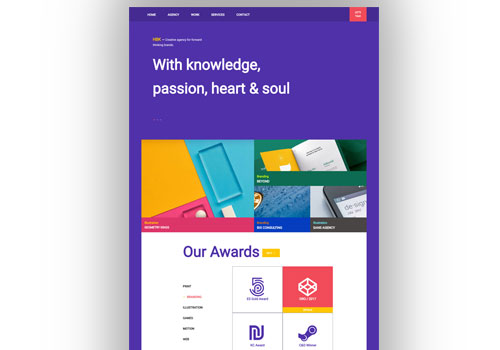
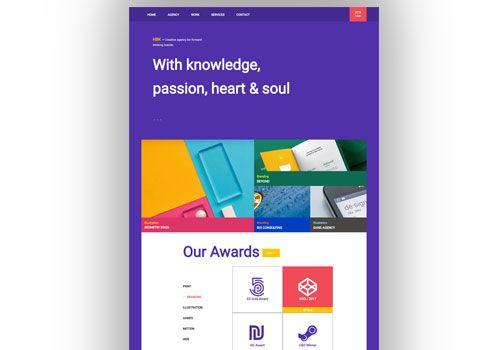
- Add the Breakfast Bar project

diff --git a/build/index.html b/build/index.html
@@ -8,4 +8,4 @@
         About Me section, constains information about the user
         --><section class="about-me" id="aboutMe"><div class="about-me__picture"><img src="img/Eva.jpg" alt="Profile photo"><p>Welcome to my portfolio!</p><p>See my online activity</p><!--social icons svg--> <a href="https://www.linkedin.com/in/eva-m-gyomrey-l-6050a4aa/" title="See me on LinkedIn"><svg role="img" aria-label="LinkedIn" width="40" height="40" viewBox="0 0 1792 1792" xmlns="http://www.w3.org/2000/svg"><path d="M365 1414h231v-694h-231v694zm246-908q-1-52-36-86t-93-34-94.5 34-36.5 86q0 51 35.5 85.5t92.5 34.5h1q59 0 95-34.5t36-85.5zm585 908h231v-398q0-154-73-233t-193-79q-136 0-209 117h2v-101h-231q3 66 0 694h231v-388q0-38 7-56 15-35 45-59.5t74-24.5q116 0 116 157v371zm468-998v960q0 119-84.5 203.5t-203.5 84.5h-960q-119 0-203.5-84.5t-84.5-203.5v-960q0-119 84.5-203.5t203.5-84.5h960q119 0 203.5 84.5t84.5 203.5z"/></svg></a><a href="mailto:evamargy@gmail.com" title="Email me"><svg role="img" aria-label="Email" width="40" height="40" viewBox="0 0 1792 1792" xmlns="http://www.w3.org/2000/svg"><path d="M1376 128q119 0 203.5 84.5t84.5 203.5v960q0 119-84.5 203.5t-203.5 84.5h-960q-119 0-203.5-84.5t-84.5-203.5v-960q0-119 84.5-203.5t203.5-84.5h960zm32 1056v-436q-31 35-64 55-34 22-132.5 85t-151.5 99q-98 69-164 69t-164-69q-47-32-142-92.5t-142-92.5q-12-8-33-27t-31-27v436q0 40 28 68t68 28h832q40 0 68-28t28-68zm0-573q0-41-27.5-70t-68.5-29h-832q-40 0-68 28t-28 68q0 37 30.5 76.5t67.5 64.5q47 32 137.5 89t129.5 83q3 2 17 11.5t21 14 21 13 23.5 13 21.5 9.5 22.5 7.5 20.5 2.5 20.5-2.5 22.5-7.5 21.5-9.5 23.5-13 21-13 21-14 17-11.5l267-174q35-23 66.5-62.5t31.5-73.5z"/></svg></a><a href="https://github.com/EGYOMREY/" title="My Github account"><svg role="img" aria-label="Github" width="40" height="40" viewBox="0 0 1792 1792" xmlns="http://www.w3.org/2000/svg"><path d="M647 1200q4-6-3-13-9-7-14-2-4 6 3 13 9 7 14 2zm-28-41q-5-7-12-4-6 4 0 12 7 8 12 5 6-4 0-13zm-41-40q2-4-5-8-7-2-8 2-3 5 4 8 8 2 9-2zm21 23q2-1 1.5-4.5t-3.5-5.5q-6-7-10-3t1 11q6 6 11 2zm86 75q2-7-9-11-9-3-13 4-2 7 9 11 9 3 13-4zm42 3q0-8-12-8-10 0-10 8t11 8 11-8zm39-7q-2-7-13-5t-9 9q2 8 12 6t10-10zm642-317q0-212-150-362t-362-150-362 150-150 362q0 167 98 300.5t252 185.5q18 3 26.5-5t8.5-20q0-52-1-95-6 1-15.5 2.5t-35.5 2-48-4-43.5-20-29.5-41.5q-23-59-57-74-2-1-4.5-3.5l-8-8-7-9.5 4-7.5 19.5-3.5q6 0 15 2t30 15.5 33 35.5q16 28 37.5 42t43.5 14 38-3.5 30-9.5q7-47 33-69-49-6-86-18.5t-73-39-55.5-76-19.5-119.5q0-79 53-137-24-62 5-136 19-6 54.5 7.5t60.5 29.5l26 16q58-17 128-17t128 17q11-7 28.5-18t55.5-26 57-9q29 74 5 136 53 58 53 137 0 57-14 100.5t-35.5 70-53.5 44.5-62.5 26-68.5 12q35 31 35 95 0 40-.5 89t-.5 51q0 12 8.5 20t26.5 5q154-52 252-185.5t98-300.5zm256-480v960q0 119-84.5 203.5t-203.5 84.5h-960q-119 0-203.5-84.5t-84.5-203.5v-960q0-119 84.5-203.5t203.5-84.5h960q119 0 203.5 84.5t84.5 203.5z"/></svg></a></div><div class="about-me__details"><h2>About Me</h2><p>My learning path started with the <a href="https://www.udacity.com/course/front-end-web-developer-nanodegree--nd001">Udacity Front-End Nanodegree</a> and graduated on September 2017. It was fun and very rewarding! My favorite project was the "Google Maps Neighborhood" which is listed below.</p><p>Skills:</p><ul><li>HTML5</li><li>CSS3/Sass</li><li>BEM methodology</li><li>Responsive Design</li><li>Build tools: Gulp/Grunt</li><li>Working with API's</li><li>Javascript</li><li>Basic ReactJS</li></ul></div></section><!--
           Projects section: contains pictures and details about projects
-          --><section class="project" id="projects"><h2>Projects & Details</h2><div class="grid justify-content"><!-- Individual project block --><div class="project-block"><img src="img/From-Mockup-To-Website-Project.jpg" alt="From Mockup to Website Project"><div class="project-block__buttons"><a href="https://github.com/EGYOMREY/From-Mockup-to-Website" class="btn btn--primary" role="button">Code</a> <a href="https://egyomrey.github.io/From-Mockup-to-Website/build/index.html" class="btn btn--primary" role="button">Live</a></div><div class="project-block__details"><h3>From Mockup to Website Project</h3><p>I took <a href="https://egyomrey.github.io/From-Mockup-to-Website/Dribbble%20mockup.jpg">this design</a> from Dribble.com and built it as a responsive single page website with Sass, no frameworks used.</p></div></div><!-- Individual project block --><div class="project-block"><img src="img/MarsCollection-Project.png" alt=""><div class="project-block__buttons"><a href="https://github.com/EGYOMREY/Mars-Collection" class="btn btn--primary" role="button">Code</a> <a href="https://egyomrey.github.io/Mars-Collection/build/index.html" class="btn btn--primary" role="button">Live</a></div><div class="project-block__details"><h3>Mars Photo Showcase</h3><p>Using the NASA's <a href="https://api.nasa.gov/api.html#MarsPhotos">Mars Rover Photos</a> API, send requests to display images from Mars taken by the rovers. The search can be customized by number of pictures displayed, height/width of the picture and name of the rover. Used Jquery, ES2015 and Sass.</p></div></div><!-- Individual project block --><div class="project-block"><img src="img/TheWritingGame-Project.jpg" alt="The Writing Game"><div class="project-block__buttons"><a href="https://github.com/EGYOMREY/The-Writing-Game" class="btn btn--primary" role="button">Code</a> <a href="https://egyomrey.github.io/The-Writing-Game/" class="btn btn--primary" role="button">Live</a></div><div class="project-block__details"><h3>The Writing Game</h3><p>This game has 4 different game modes: Easy, Medium, Hard and a Mix of those 3. You have to write down the displayed word as fast as you can; if you do it right, the time will restart, if you take too long you will lose and your score will be displayed. Your highscore is also saved in the browser.</p></div></div><!-- Individual project block --><div class="project-block"><img src="img/GoogleMaps_UdacityProject.jpg" alt="Udacity Nanodegree Google Maps Project"><div class="project-block__buttons"><a href="https://github.com/EGYOMREY/Udacity-Nanodegree-Project-5-Google-Maps-Neighborhood" class="btn btn--primary" role="button">Code</a> <a href="https://egyomrey.github.io/Udacity-Nanodegree-Project-5-Google-Maps-Neighborhood/" class="btn btn--primary" role="button">Live</a></div><div class="project-block__details"><h3>Udacity Nanodegree Project</h3><p>This is a single page application featuring a map of a place I'd like to visit using the Google Maps API. The <a href="http://knockoutjs.com/">Knockout Framework</a>, was used to handle the list of places, filter, and any other information on the page that is subject to changing state. Added functionality using the <a href="https://www.mediawiki.org/wiki/API:Main_page/en">Wikipedia API</a> to provide information when a map marker or list view entry is clicked.</p></div></div></div></section><!-- Footer: contains Contact information --><footer class="contact-me" id="contactMe"><h3 class="contact-me__title">Contact Me</h3><div class="contact-me__icons"><a href="https://www.linkedin.com/in/eva-m-gyomrey-l-6050a4aa/" title="See me on LinkedIn"><svg role="img" aria-label="LinkedIn" width="40" height="40" viewBox="0 0 1792 1792" xmlns="http://www.w3.org/2000/svg"><path d="M365 1414h231v-694h-231v694zm246-908q-1-52-36-86t-93-34-94.5 34-36.5 86q0 51 35.5 85.5t92.5 34.5h1q59 0 95-34.5t36-85.5zm585 908h231v-398q0-154-73-233t-193-79q-136 0-209 117h2v-101h-231q3 66 0 694h231v-388q0-38 7-56 15-35 45-59.5t74-24.5q116 0 116 157v371zm468-998v960q0 119-84.5 203.5t-203.5 84.5h-960q-119 0-203.5-84.5t-84.5-203.5v-960q0-119 84.5-203.5t203.5-84.5h960q119 0 203.5 84.5t84.5 203.5z"/></svg></a><a href="mailto:evamargy@gmail.com" title="Email me"><svg role="img" aria-label="Email" width="40" height="40" viewBox="0 0 1792 1792" xmlns="http://www.w3.org/2000/svg"><path d="M1376 128q119 0 203.5 84.5t84.5 203.5v960q0 119-84.5 203.5t-203.5 84.5h-960q-119 0-203.5-84.5t-84.5-203.5v-960q0-119 84.5-203.5t203.5-84.5h960zm32 1056v-436q-31 35-64 55-34 22-132.5 85t-151.5 99q-98 69-164 69t-164-69q-47-32-142-92.5t-142-92.5q-12-8-33-27t-31-27v436q0 40 28 68t68 28h832q40 0 68-28t28-68zm0-573q0-41-27.5-70t-68.5-29h-832q-40 0-68 28t-28 68q0 37 30.5 76.5t67.5 64.5q47 32 137.5 89t129.5 83q3 2 17 11.5t21 14 21 13 23.5 13 21.5 9.5 22.5 7.5 20.5 2.5 20.5-2.5 22.5-7.5 21.5-9.5 23.5-13 21-13 21-14 17-11.5l267-174q35-23 66.5-62.5t31.5-73.5z"/></svg></a><a href="https://github.com/EGYOMREY/" title="My Github account"><svg role="img" aria-label="Github" width="40" height="40" viewBox="0 0 1792 1792" xmlns="http://www.w3.org/2000/svg"><path d="M647 1200q4-6-3-13-9-7-14-2-4 6 3 13 9 7 14 2zm-28-41q-5-7-12-4-6 4 0 12 7 8 12 5 6-4 0-13zm-41-40q2-4-5-8-7-2-8 2-3 5 4 8 8 2 9-2zm21 23q2-1 1.5-4.5t-3.5-5.5q-6-7-10-3t1 11q6 6 11 2zm86 75q2-7-9-11-9-3-13 4-2 7 9 11 9 3 13-4zm42 3q0-8-12-8-10 0-10 8t11 8 11-8zm39-7q-2-7-13-5t-9 9q2 8 12 6t10-10zm642-317q0-212-150-362t-362-150-362 150-150 362q0 167 98 300.5t252 185.5q18 3 26.5-5t8.5-20q0-52-1-95-6 1-15.5 2.5t-35.5 2-48-4-43.5-20-29.5-41.5q-23-59-57-74-2-1-4.5-3.5l-8-8-7-9.5 4-7.5 19.5-3.5q6 0 15 2t30 15.5 33 35.5q16 28 37.5 42t43.5 14 38-3.5 30-9.5q7-47 33-69-49-6-86-18.5t-73-39-55.5-76-19.5-119.5q0-79 53-137-24-62 5-136 19-6 54.5 7.5t60.5 29.5l26 16q58-17 128-17t128 17q11-7 28.5-18t55.5-26 57-9q29 74 5 136 53 58 53 137 0 57-14 100.5t-35.5 70-53.5 44.5-62.5 26-68.5 12q35 31 35 95 0 40-.5 89t-.5 51q0 12 8.5 20t26.5 5q154-52 252-185.5t98-300.5zm256-480v960q0 119-84.5 203.5t-203.5 84.5h-960q-119 0-203.5-84.5t-84.5-203.5v-960q0-119 84.5-203.5t203.5-84.5h960q119 0 203.5 84.5t84.5 203.5z"/></svg></a></div></footer></main><script src="js/app.js" async></script></body></html>
+          --><section class="project" id="projects"><h2>Projects & Details</h2><div class="grid justify-content"><!-- Individual project block --><div class="project-block"><img src="img/From-Mockup-To-Website-Project.jpg" alt="From Mockup to Website Project"><div class="project-block__buttons"><a href="https://github.com/EGYOMREY/From-Mockup-to-Website" class="btn btn--primary" role="button">Code</a> <a href="https://egyomrey.github.io/From-Mockup-to-Website/build/index.html" class="btn btn--primary" role="button">Live</a></div><div class="project-block__details"><h3>From Mockup to Website Project</h3><p>I took <a href="https://egyomrey.github.io/From-Mockup-to-Website/Dribbble%20mockup.jpg">this design</a> from Dribble.com and built it as a responsive single page website with SCSS, no frameworks used.</p></div></div><!-- Individual project block --><div class="project-block"><img src="img/MarsCollection-Project.png" alt=""><div class="project-block__buttons"><a href="https://github.com/EGYOMREY/Mars-Collection" class="btn btn--primary" role="button">Code</a> <a href="https://egyomrey.github.io/Mars-Collection/build/index.html" class="btn btn--primary" role="button">Live</a></div><div class="project-block__details"><h3>Mars Photo Showcase</h3><p>Using the NASA's <a href="https://api.nasa.gov/api.html#MarsPhotos">Mars Rover Photos</a> API, send requests to display images from Mars taken by the rovers. The search can be customized by number of pictures displayed, height/width of the picture and name of the rover. Used Jquery, ES2015 and SCSS.</p></div></div><!-- Individual project block --><div class="project-block"><img src="img/TheWritingGame-Project.jpg" alt="The Writing Game"><div class="project-block__buttons"><a href="https://github.com/EGYOMREY/The-Writing-Game" class="btn btn--primary" role="button">Code</a> <a href="https://egyomrey.github.io/The-Writing-Game/" class="btn btn--primary" role="button">Live</a></div><div class="project-block__details"><h3>The Writing Game</h3><p>This game has 4 different game modes: Easy, Medium, Hard and a Mix of those 3. You have to write down the displayed word as fast as you can; if you do it right, the time will restart, if you take too long you will lose and your score will be displayed. Your highscore is also saved in the browser.</p></div></div><!-- Individual project block --><div class="project-block"><img src="img/Breakfast-Bar-Project.jpg" alt="The Breakfast Bar"><div class="project-block__buttons"><a href="https://github.com/EGYOMREY/Breakfast-Bar" class="btn btn--primary" role="button">Code</a> <a href="https://egyomrey.github.io/Breakfast-Bar/build/index.html" class="btn btn--primary" role="button">Live</a></div><div class="project-block__details"><h3>The Breakfast Bar</h3><p>I took <a href="https://egyomrey.github.io/Breakfast-Bar/Mockup%20from%20Dribbble.jpg">this design</a> from dribbble.com and built a single responsive website. SCSS used</p></div></div><!-- Individual project block --><div class="project-block"><img src="img/GoogleMaps_UdacityProject.jpg" alt="Udacity Nanodegree Google Maps Project"><div class="project-block__buttons"><a href="https://github.com/EGYOMREY/Udacity-Nanodegree-Project-5-Google-Maps-Neighborhood" class="btn btn--primary" role="button">Code</a> <a href="https://egyomrey.github.io/Udacity-Nanodegree-Project-5-Google-Maps-Neighborhood/" class="btn btn--primary" role="button">Live</a></div><div class="project-block__details"><h3>Google Maps Project</h3><p>This is a single page application featuring a map of a place I'd like to visit using the Google Maps API. The <a href="http://knockoutjs.com/">Knockout Framework</a>, was used to handle the list of places, filter, and any other information on the page that is subject to changing state. Added functionality using the <a href="https://www.mediawiki.org/wiki/API:Main_page/en">Wikipedia API</a> to provide information when a map marker or list view entry is clicked.</p></div></div></div></section><!-- Footer: contains Contact information --><footer class="contact-me" id="contactMe"><h3 class="contact-me__title">Contact Me</h3><div class="contact-me__icons"><a href="https://www.linkedin.com/in/eva-m-gyomrey-l-6050a4aa/" title="See me on LinkedIn"><svg role="img" aria-label="LinkedIn" width="40" height="40" viewBox="0 0 1792 1792" xmlns="http://www.w3.org/2000/svg"><path d="M365 1414h231v-694h-231v694zm246-908q-1-52-36-86t-93-34-94.5 34-36.5 86q0 51 35.5 85.5t92.5 34.5h1q59 0 95-34.5t36-85.5zm585 908h231v-398q0-154-73-233t-193-79q-136 0-209 117h2v-101h-231q3 66 0 694h231v-388q0-38 7-56 15-35 45-59.5t74-24.5q116 0 116 157v371zm468-998v960q0 119-84.5 203.5t-203.5 84.5h-960q-119 0-203.5-84.5t-84.5-203.5v-960q0-119 84.5-203.5t203.5-84.5h960q119 0 203.5 84.5t84.5 203.5z"/></svg></a><a href="mailto:evamargy@gmail.com" title="Email me"><svg role="img" aria-label="Email" width="40" height="40" viewBox="0 0 1792 1792" xmlns="http://www.w3.org/2000/svg"><path d="M1376 128q119 0 203.5 84.5t84.5 203.5v960q0 119-84.5 203.5t-203.5 84.5h-960q-119 0-203.5-84.5t-84.5-203.5v-960q0-119 84.5-203.5t203.5-84.5h960zm32 1056v-436q-31 35-64 55-34 22-132.5 85t-151.5 99q-98 69-164 69t-164-69q-47-32-142-92.5t-142-92.5q-12-8-33-27t-31-27v436q0 40 28 68t68 28h832q40 0 68-28t28-68zm0-573q0-41-27.5-70t-68.5-29h-832q-40 0-68 28t-28 68q0 37 30.5 76.5t67.5 64.5q47 32 137.5 89t129.5 83q3 2 17 11.5t21 14 21 13 23.5 13 21.5 9.5 22.5 7.5 20.5 2.5 20.5-2.5 22.5-7.5 21.5-9.5 23.5-13 21-13 21-14 17-11.5l267-174q35-23 66.5-62.5t31.5-73.5z"/></svg></a><a href="https://github.com/EGYOMREY/" title="My Github account"><svg role="img" aria-label="Github" width="40" height="40" viewBox="0 0 1792 1792" xmlns="http://www.w3.org/2000/svg"><path d="M647 1200q4-6-3-13-9-7-14-2-4 6 3 13 9 7 14 2zm-28-41q-5-7-12-4-6 4 0 12 7 8 12 5 6-4 0-13zm-41-40q2-4-5-8-7-2-8 2-3 5 4 8 8 2 9-2zm21 23q2-1 1.5-4.5t-3.5-5.5q-6-7-10-3t1 11q6 6 11 2zm86 75q2-7-9-11-9-3-13 4-2 7 9 11 9 3 13-4zm42 3q0-8-12-8-10 0-10 8t11 8 11-8zm39-7q-2-7-13-5t-9 9q2 8 12 6t10-10zm642-317q0-212-150-362t-362-150-362 150-150 362q0 167 98 300.5t252 185.5q18 3 26.5-5t8.5-20q0-52-1-95-6 1-15.5 2.5t-35.5 2-48-4-43.5-20-29.5-41.5q-23-59-57-74-2-1-4.5-3.5l-8-8-7-9.5 4-7.5 19.5-3.5q6 0 15 2t30 15.5 33 35.5q16 28 37.5 42t43.5 14 38-3.5 30-9.5q7-47 33-69-49-6-86-18.5t-73-39-55.5-76-19.5-119.5q0-79 53-137-24-62 5-136 19-6 54.5 7.5t60.5 29.5l26 16q58-17 128-17t128 17q11-7 28.5-18t55.5-26 57-9q29 74 5 136 53 58 53 137 0 57-14 100.5t-35.5 70-53.5 44.5-62.5 26-68.5 12q35 31 35 95 0 40-.5 89t-.5 51q0 12 8.5 20t26.5 5q154-52 252-185.5t98-300.5zm256-480v960q0 119-84.5 203.5t-203.5 84.5h-960q-119 0-203.5-84.5t-84.5-203.5v-960q0-119 84.5-203.5t203.5-84.5h960q119 0 203.5 84.5t84.5 203.5z"/></svg></a></div></footer></main><script src="js/app.js" async></script></body></html>

diff --git a/src/index.html b/src/index.html
@@ -85,7 +85,7 @@
                 </div>
                 <div class="project-block__details">
                   <h3>From Mockup to Website Project</h3>
-                  <p>I took <a href="https://egyomrey.github.io/From-Mockup-to-Website/Dribbble%20mockup.jpg">this design</a> from Dribble.com and built it as a responsive single page website with Sass, no frameworks used.</p>
+                  <p>I took <a href="https://egyomrey.github.io/From-Mockup-to-Website/Dribbble%20mockup.jpg">this design</a> from Dribble.com and built it as a responsive single page website with SCSS, no frameworks used.</p>
                 </div>
               </div>
                <!-- Individual project block -->
@@ -97,7 +97,7 @@
                 </div>
                 <div class="project-block__details">
                   <h3>Mars Photo Showcase</h3>
-                  <p>Using the NASA's <a href="https://api.nasa.gov/api.html#MarsPhotos">Mars Rover Photos</a> API, send requests to display images from Mars taken by the rovers. The search can be customized by number of pictures displayed, height/width of the picture and name of the rover. Used Jquery, ES2015 and Sass.</p>
+                  <p>Using the NASA's <a href="https://api.nasa.gov/api.html#MarsPhotos">Mars Rover Photos</a> API, send requests to display images from Mars taken by the rovers. The search can be customized by number of pictures displayed, height/width of the picture and name of the rover. Used Jquery, ES2015 and SCSS.</p>
                 </div>
               </div>
                <!-- Individual project block -->
@@ -114,13 +114,25 @@
               </div>
               <!-- Individual project block -->
               <div class="project-block">
+                <img src="img/Breakfast-Bar-Project.jpg" alt="The Breakfast Bar">
+                <div class="project-block__buttons">
+                  <a href="https://github.com/EGYOMREY/Breakfast-Bar" class="btn btn--primary" role="button">Code</a>
+                  <a href="https://egyomrey.github.io/Breakfast-Bar/build/index.html" class="btn btn--primary" role="button">Live</a>
+                </div>
+                <div class="project-block__details">
+                  <h3>The Breakfast Bar</h3>
+                  <p>I took <a href="https://egyomrey.github.io/Breakfast-Bar/Mockup%20from%20Dribbble.jpg">this design</a> from dribbble.com and built a single responsive website. SCSS used</p>
+                </div>
+              </div>
+              <!-- Individual project block -->
+              <div class="project-block">
                 <img src="img/GoogleMaps_UdacityProject.jpg" alt="Udacity Nanodegree Google Maps Project">
                 <div class="project-block__buttons">
                   <a href="https://github.com/EGYOMREY/Udacity-Nanodegree-Project-5-Google-Maps-Neighborhood" class="btn btn--primary" role="button">Code</a>
                   <a href="https://egyomrey.github.io/Udacity-Nanodegree-Project-5-Google-Maps-Neighborhood/" class="btn btn--primary" role="button">Live</a>
                 </div>
                 <div class="project-block__details">
-                  <h3>Udacity Nanodegree Project</h3>
+                  <h3>Google Maps Project</h3>
                   <p>This is a single page application featuring a map of a place I'd like to visit using the Google Maps API. The <a href="http://knockoutjs.com/">Knockout Framework</a>, was used to handle the list of places, filter, and any other information on the page that is subject to changing state. Added functionality using the <a href="https://www.mediawiki.org/wiki/API:Main_page/en">Wikipedia API</a> to provide information when a map marker or list view entry is clicked.</p>
                 </div>
             </div>
